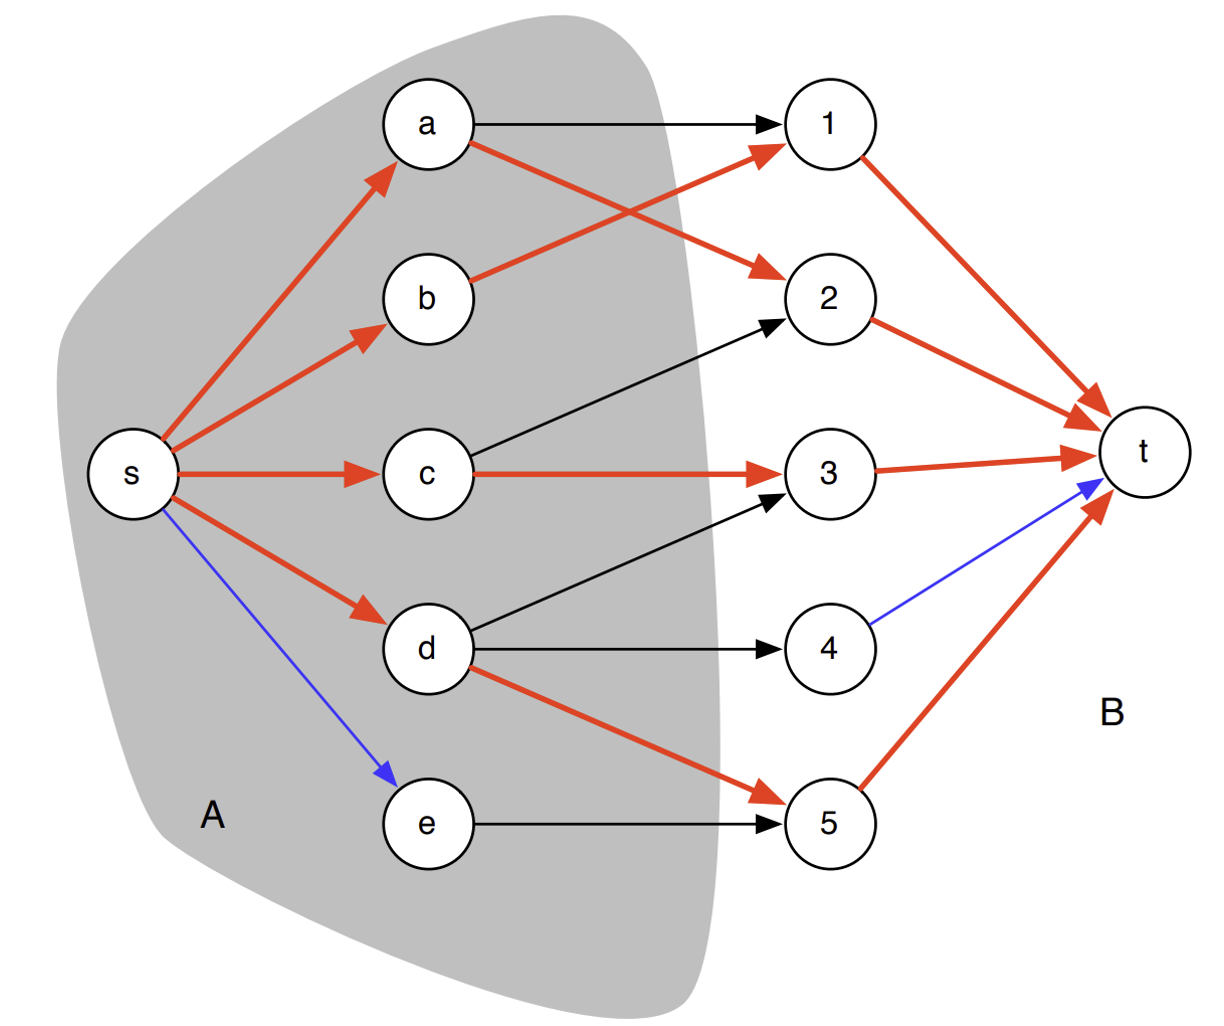
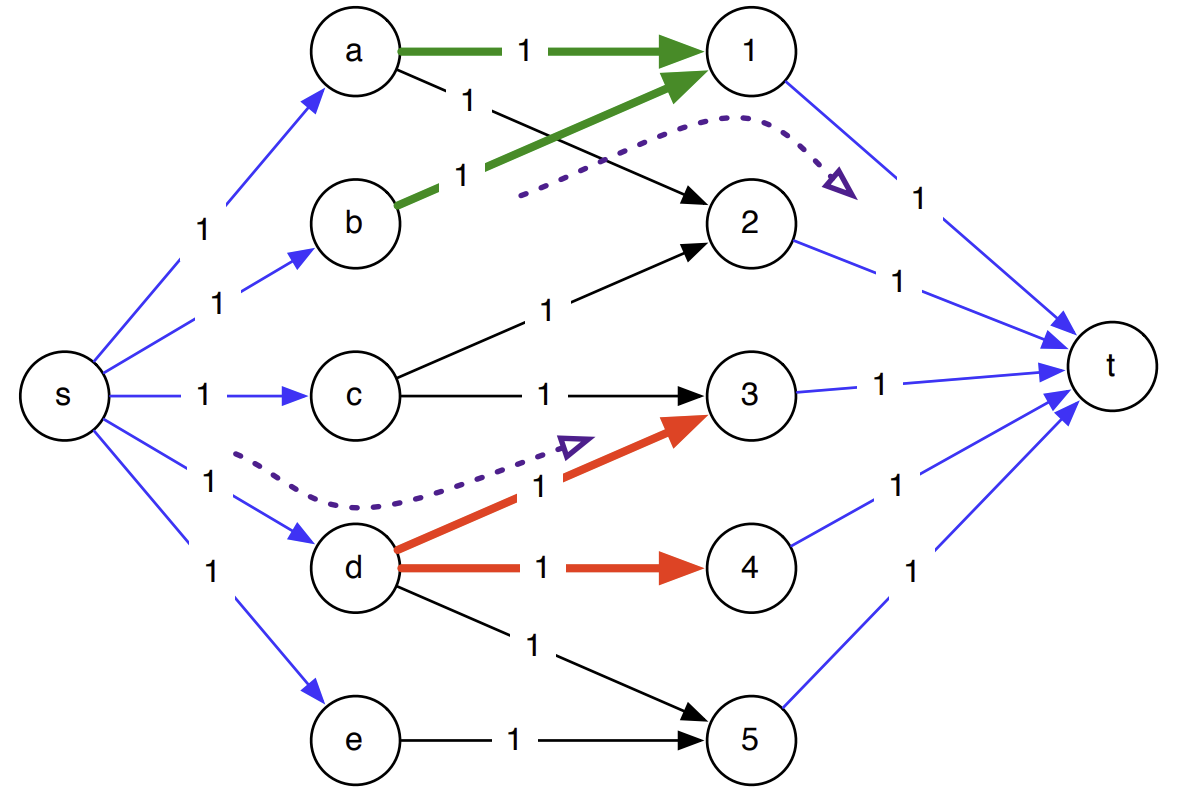
Graph Matching

diff --git a/_posts/2023-10-18-Graph-Matching.md b/_posts/2023-10-18-Graph-Matching.md
@@ -20,10 +20,12 @@ math: true
 ### Maximum Matching in Weighted Graph
 주어진 그래프 $G$가 가중치가 있는 경우 매칭 중 간선의 가중치의 합이 최대인 매칭을 의미한다.
 
+![Desktop View](/assets/img/posts/2023-10-18-Graph-Matching-3.png){: width="272"}
+
 ## Bipartite Graph
 그래프의 정점을 두 그룹으로 적절히 분류하였을때 간선이 서로 다른 그룹의 정점을 연결하고 같은 그룹의 정점 사이 간선이 없는 그래프이다.
 
-![Desktop View](/assets/img/posts/2023-10-18-Graph-Matching-3.png){: width="472" height="489" }
+![Desktop View](/assets/img/posts/2023-10-18-Graph-Matching-4.png){: width="472" height="489" }
 
 ## Maximum Matching in Bipartite Graph
 이분 그래프에서의 최대 매칭은 최대 유량 문제로 해결 가능하다. 
@@ -42,12 +44,12 @@ $M$을 위의 $G^\prime$에서 구한 최대 유량을 구성하는 간선 중 $
 그래프 $G^\prime$을 정의한 방식에 의해 최대 유량을 구성하는 간선에는 어떠한 $A$의 노드에서도 최대 $1$개의 간선이 나가고, 어떠한 $B$의 노드에서도 최대 $1$개의 간선이 들어온다. 
 만약, 어떠한 $A$의 노드에서 나가는 간선이 $2$개 이상이라면, $s$에서 이 노드를 연결하는 간선의 용량이 $1$이므로 불가능하다. 비슷하게, 어떠한 $B$의 노드에 들어오는 간선이 $2$개 이상이라면, $t$에서 이 노드를 연결하는 간선의 용량이 $1$이므로 불가능하다.
 
-![Desktop View](/assets/img/posts/2023-10-18-Graph-Matching-4.png){: width="472"}
+![Desktop View](/assets/img/posts/2023-10-18-Graph-Matching-5.png){: width="472"}
 
 #### $M$ is a maximum matching
 간선의 개수가 $k$개인 매칭이 존재한다면, 
 
-![Desktop View](/assets/img/posts/2023-10-18-Graph-Matching-5.png){: width="472"}
+![Desktop View](/assets/img/posts/2023-10-18-Graph-Matching-6.png){: width="472"}
 
 [PDF](https://www.cs.cmu.edu/~ckingsf/bioinfo-lectures/matching.pdf)
 
@@ -61,7 +63,7 @@ $M$을 위의 $G^\prime$에서 구한 최대 유량을 구성하는 간선 중 $
 주어진 그래프 $G\left(V, E\right)$에서의 임의의 매칭 $M$에 대해 Exposed Vertex는 그래프의 정점 중 매칭에는 포함되지 않는 정점을 의미한다. Augmenting Path는 주어진 그래프의
 경로 중 양 끝 정점이 서로 다른 Exposed Vertex이며 경로상의 간선들이 매칭에 포함되는 간선과 매칭에 포함되지 않는 간선이 교대로 나타나는 경로를 의미한다.
 
-![Desktop View](/assets/img/posts/2023-10-18-Graph-Matching-6.png){: width="272"}
+![Desktop View](/assets/img/posts/2023-10-18-Graph-Matching-7.png){: width="272"}
 
 위의 그림에서 파란색 원으로 표현된 정점들은 Exposed Vertex를 의미하며, 파란색의 경로는 Augmenting Path이다.
 
